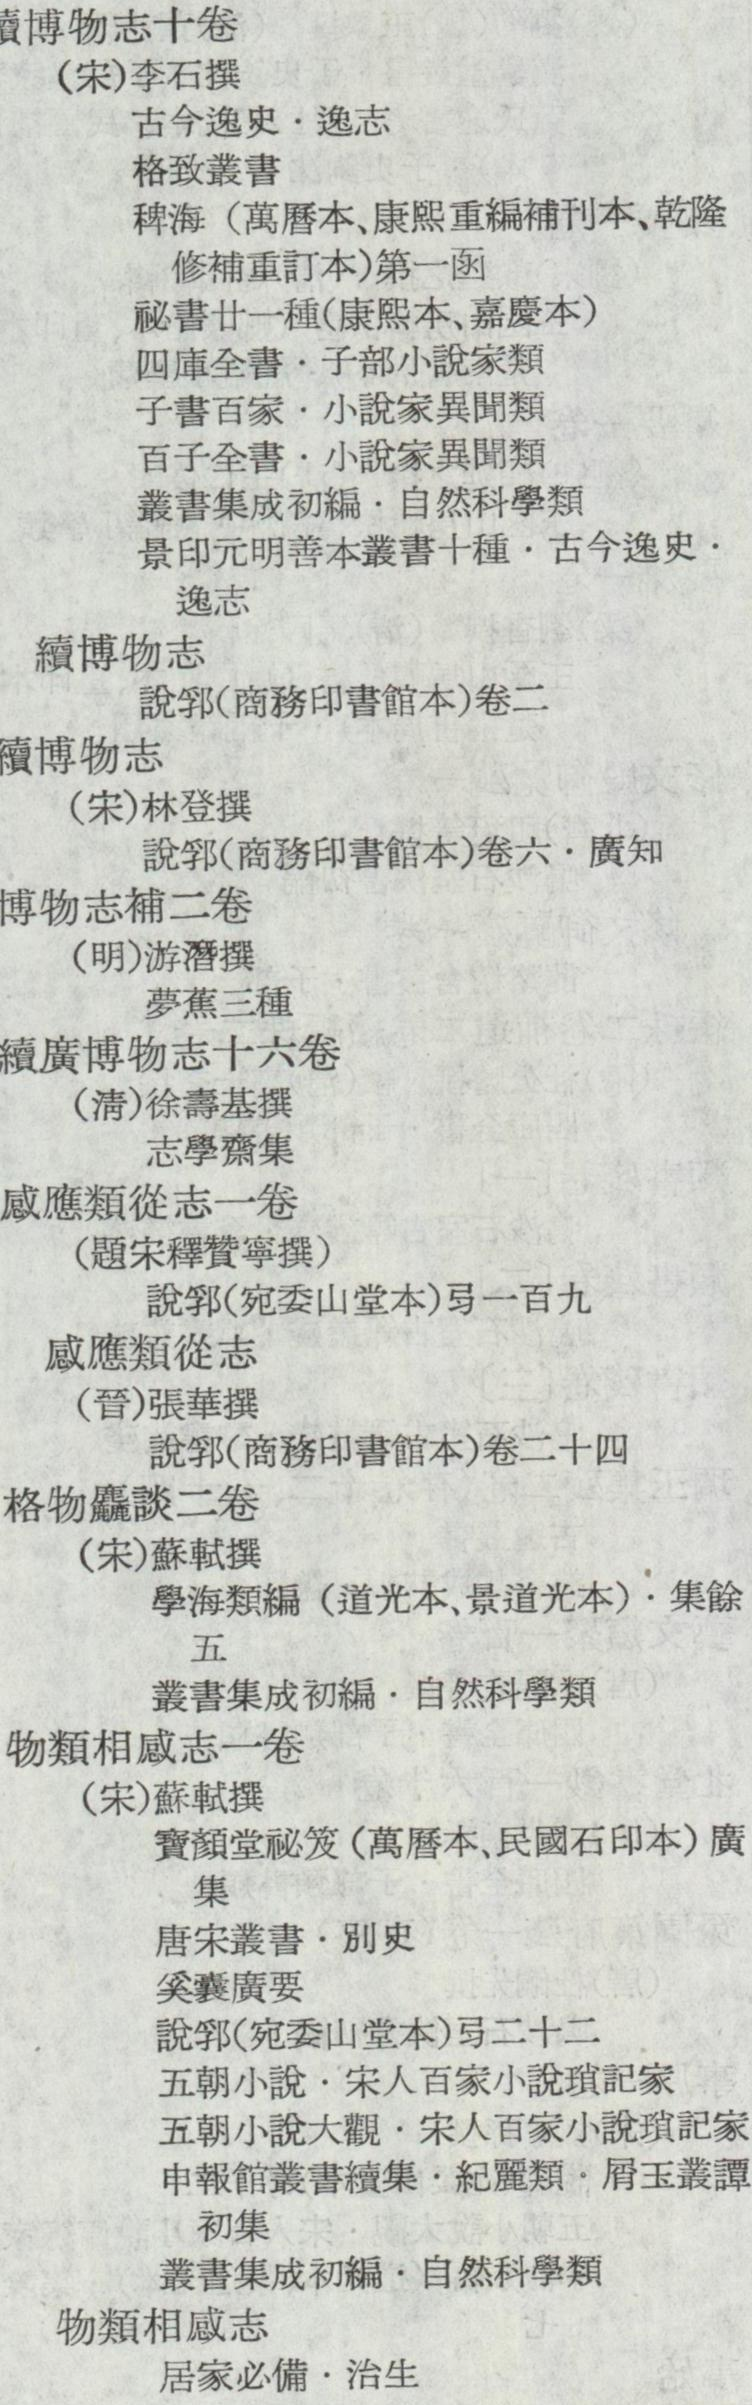
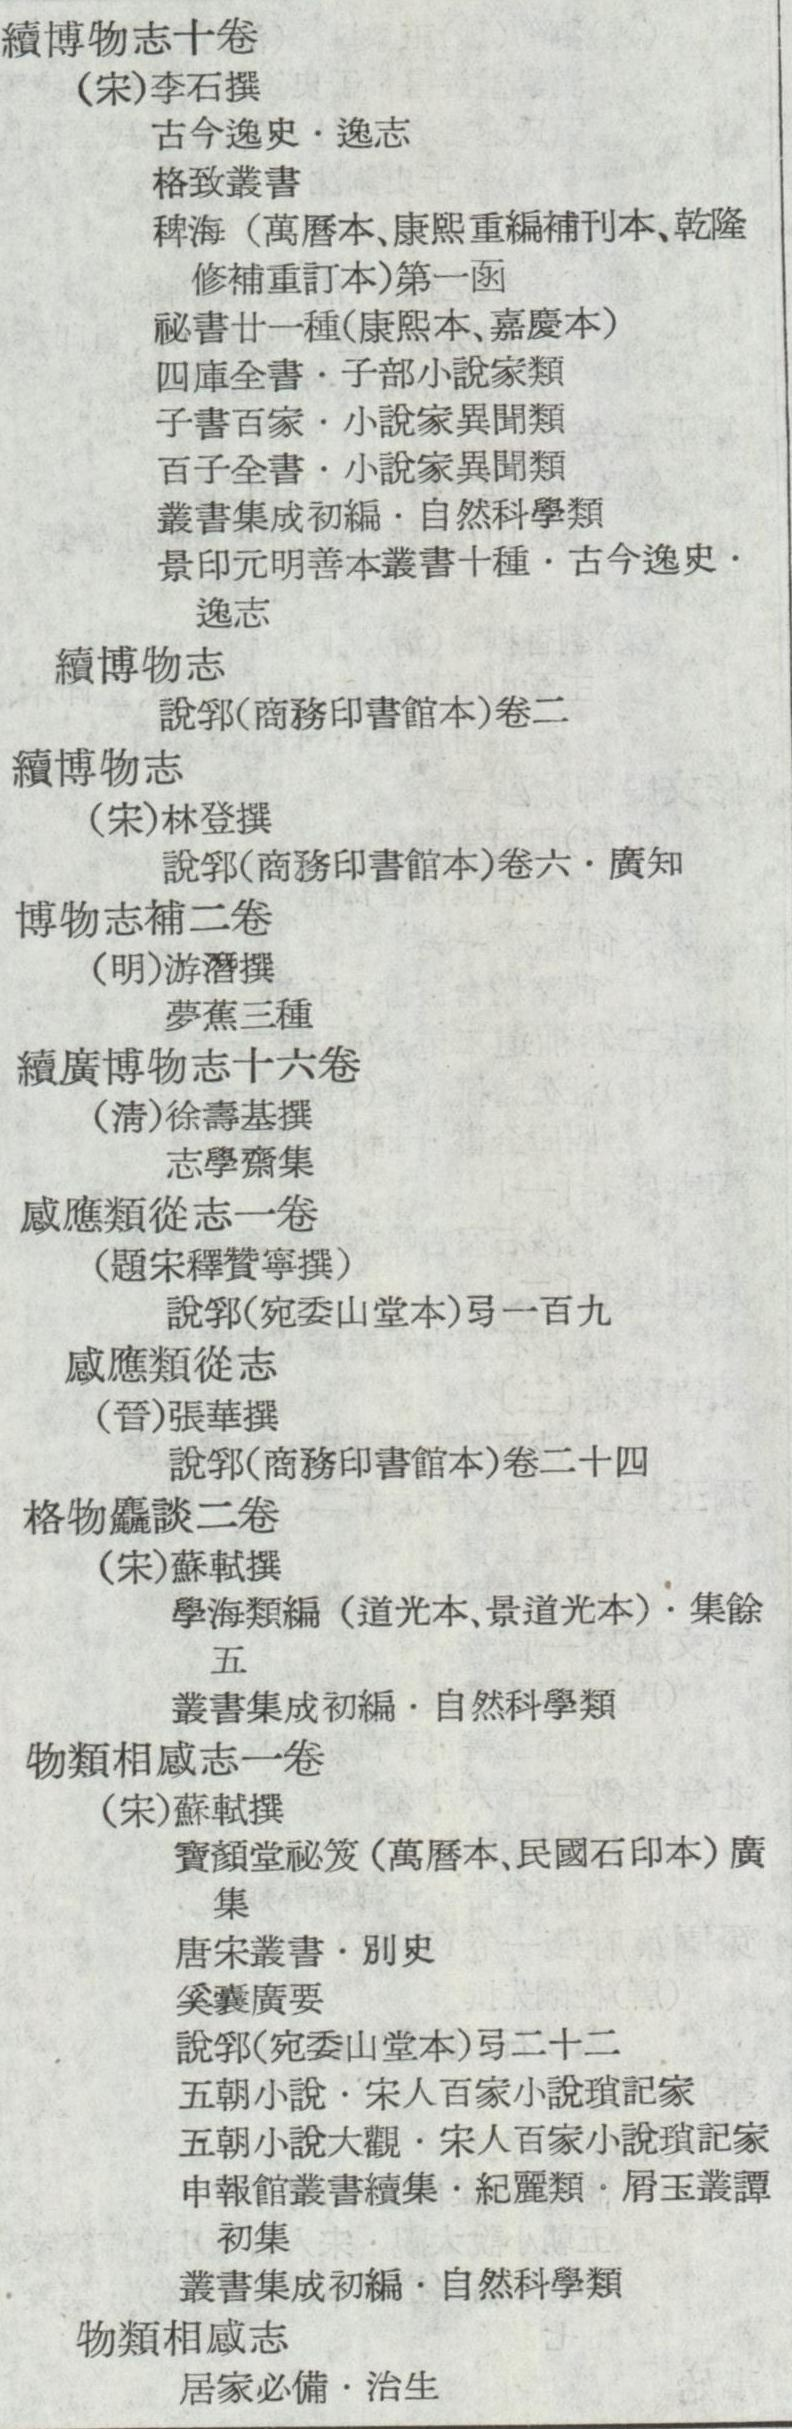
update

diff --git a/crop_img.py b/crop_img.py
@@ -34,8 +34,8 @@ def crop_image(file_name,output_dir,input_dir):
     #print(height)
     #print(str(top_1) + "-" + str(top_2))
 
-    left_offset = 25
-    top_offset = 15
+    left_offset = 5
+    top_offset = 3
     
     left_img = im_jpg.crop((left_1+left_offset,top_1+top_offset,left_2-left_offset,top_2-top_offset))
     right_img = im_jpg.crop((left_2+left_offset,top_1+top_offset,left_3-left_offset,top_2-top_offset))
